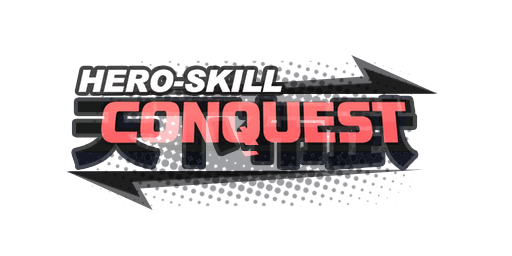
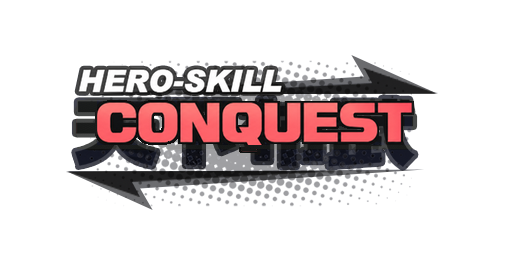
fix(art-translate): 天下布武英文版定名 CONQUEST 并补齐字块不透明度
- 译名改语义译名 CONQUEST（原 TENKA FUBU 是罗马字音译，英文玩家读不出含义）
- gpt_layout 补三条硬约束：擦除处不许留任何矩形色块、字必须完全遮住黑箭头与网点、
  整词压在 y≈152 以上（再往下底板散成网点）
- 新增 scripts/image/letter_alpha_fix.py：字压在网点晕圈上会继承底板 alpha(102)，
  RGB 调不动，必须把字块 alpha 抬到 255 并按 alpha_band 契约出边车
- 交付图 8/8 验收全绿（OCR 1.00，带内 alpha>250 48.5%→73.3%）

diff --git a/scripts/image/letter_alpha_fix.py b/scripts/image/letter_alpha_fix.py
@@ -1,0 +1,154 @@
+#!/usr/bin/env python
+"""把「压在网点晕圈上的英文美术字」补成真正不透明（改 alpha，不只是 RGB）。
+
+为什么要这一步：texie 这族底板是「笔刷 + 网点晕散」的异形轮廓，网点本身带
+alpha≈102。模型把英文画进这块晕圈时，文字像素会继承底板的 alpha ⇒ 交付图里
+字看着发灰、网点透过来（RGB 明明是 (252,100,107) 的亮红，合成到深底上却成暗红）。
+RGB 怎么调都没用，必须把「字所在像素」的 alpha 抬到 255。
+
+做法：字 = 红色墨迹（含暗红描边）膨胀 2px；这块 alpha 置 255；其余原样保留源图
+alpha（带外逐像素锁死）。字母内部的中空（O/Q 的counter）保持底板 alpha，仍读作洞。
+顺带清掉字带外那些 <150px 的红色碎笔画。
+
+产出一张 RGBA PNG + `<stem>.band.json` 边车（`{"alpha_band":[x0,y0,x1,y1]}`），
+这样管线会按「本地确定性合成」验收：带外 alpha 逐像素锁死、带内允许重建。
+
+用法：
+  python scripts/image/letter_alpha_fix.py \
+      --asset Assets/ManagedResources/ArtFont_zh/font/xxx_zh.png \
+      --out /tmp/composed/xxx.png
+（读取该资产在 _output/art_translate/<名>/out.png 的当前成果）
+"""
+from __future__ import annotations
+
+import argparse
+import json
+from collections import deque
+from pathlib import Path
+
+import numpy as np
+from PIL import Image, ImageFilter
+
+ROOT = Path(__file__).resolve().parents[2]
+WORK = ROOT / "_output" / "art_translate"
+
+
+def _dilate(mask: np.ndarray, r: int) -> np.ndarray:
+    im = Image.fromarray((mask * 255).astype(np.uint8))
+    return np.asarray(im.filter(ImageFilter.MaxFilter(2 * r + 1))) > 128
+
+
+def _reachable(mask: np.ndarray) -> np.ndarray:
+    """mask 中与画布边界 4 连通可达的像素"""
+    h, w = mask.shape
+    seen = np.zeros_like(mask, bool)
+    dq: deque[tuple[int, int]] = deque()
+    for y in range(h):
+        for x in (0, w - 1):
+            if mask[y, x] and not seen[y, x]:
+                seen[y, x] = True
+                dq.append((y, x))
+    for x in range(w):
+        for y in (0, h - 1):
+            if mask[y, x] and not seen[y, x]:
+                seen[y, x] = True
+                dq.append((y, x))
+    while dq:
+        y, x = dq.popleft()
+        for dy, dx in ((1, 0), (-1, 0), (0, 1), (0, -1)):
+            ny, nx = y + dy, x + dx
+            if 0 <= ny < h and 0 <= nx < w and mask[ny, nx] and not seen[ny, nx]:
+                seen[ny, nx] = True
+                dq.append((ny, nx))
+    return seen
+
+
+def main() -> int:
+    ap = argparse.ArgumentParser()
+    ap.add_argument("--asset", required=True, help="源图（ArtFont_zh/...）相对仓库根路径")
+    ap.add_argument("--out", required=True, help="输出 RGBA PNG（会同时写 .band.json）")
+    ap.add_argument("--work-dir", default="", help="默认 _output/art_translate/<资产名>")
+    args = ap.parse_args()
+
+    src_path = ROOT / args.asset
+    if args.work_dir:
+        work = Path(args.work_dir)
+    else:
+        # 工作目录名是「去掉末尾 _zh 后缀」的那个（注意 "_zh" 也出现在 zhitianxinzhang 里，
+        # 只能用 removesuffix，不能 replace）
+        base = src_path.stem[:-3] if src_path.stem.endswith("_zh") else src_path.stem
+        canda = [WORK / src_path.stem, WORK / base]
+        work = next((c for c in canda if (c / "out.png").is_file()), canda[0])
+    out_path = Path(args.out)
+
+    src = Image.open(src_path).convert("RGBA")
+    cur = Image.open(work / "out.png").convert("RGBA")
+    if cur.size != src.size:
+        raise SystemExit(f"尺寸不一致：{cur.size} vs {src.size}")
+    sa = np.asarray(src.getchannel("A")).astype(int)
+    oa = np.asarray(cur.getchannel("A")).astype(np.uint8)
+    rgb = np.asarray(cur.convert("RGB")).astype(np.uint8).copy()
+    R, G, B = (rgb[..., i].astype(int) for i in range(3))
+
+    red = (R > 95) & (R - G > 25) & (R - B > 22) & (sa > 8)
+    letter = _dilate(red, 2)
+
+    # 清掉碎笔画（远小于一个字母连通块）
+    seen = np.zeros_like(red)
+    cleaned = 0
+    h, w = red.shape
+    for sy, sx in zip(*np.where(red)):
+        if seen[sy, sx]:
+            continue
+        dq = deque([(sy, sx)])
+        seen[sy, sx] = True
+        comp = []
+        while dq:
+            cy, cx = dq.popleft()
+            comp.append((cy, cx))
+            for dy, dx in ((1, 0), (-1, 0), (0, 1), (0, -1)):
+                ny, nx = cy + dy, cx + dx
+                if 0 <= ny < h and 0 <= nx < w and red[ny, nx] and not seen[ny, nx]:
+                    seen[ny, nx] = True
+                    dq.append((ny, nx))
+        if len(comp) < 150:
+            px = np.array(comp)
+            y0, y1 = max(0, px[:, 0].min() - 4), min(h - 1, px[:, 0].max() + 4)
+            x0, x1 = max(0, px[:, 1].min() - 4), min(w - 1, px[:, 1].max() + 4)
+            ring = [rgb[cy, cx] for cy in range(y0, y1 + 1) for cx in range(x0, x1 + 1)
+                    if not red[cy, cx] and oa[cy, cx] > 8]
+            if ring:
+                col = np.median(np.array(ring, dtype=np.float32), axis=0).astype(np.uint8)
+                for cy, cx in comp:
+                    rgb[cy, cx] = col
+                cleaned += len(comp)
+
+    new_a = oa.copy()
+    new_a[letter] = 255
+
+    ys, xs = np.where(letter)
+    b = [max(0, int(xs.min()) - 6), max(0, int(ys.min()) - 6),
+         min(w - 1, int(xs.max()) + 6), min(h - 1, int(ys.max()) + 6)]
+
+    res = Image.fromarray(rgb, "RGB").convert("RGBA")
+    res.putalpha(Image.fromarray(new_a, "L"))
+    out_path.parent.mkdir(parents=True, exist_ok=True)
+    res.save(out_path)
+    side = out_path.with_name(out_path.stem + ".band.json")
+    side.write_text(json.dumps({"alpha_band": b}, ensure_ascii=False), encoding="utf-8")
+
+    A = np.asarray(res.getchannel("A")).astype(int)
+    sub_s = sa[b[1]:b[3] + 1, b[0]:b[2] + 1]
+    sub_o = A[b[1]:b[3] + 1, b[0]:b[2] + 1]
+    outside = np.ones(sa.shape, bool)
+    outside[b[1]:b[3] + 1, b[0]:b[2] + 1] = False
+    print(f"碎笔画清除 {cleaned} px | 字块 {int(letter.sum())} px | band {b}")
+    print(f"带内 alpha>250: {(sub_s > 250).mean():.1%} → {(sub_o > 250).mean():.1%}"
+          f" | 带内 alpha<100: {(sub_s < 100).mean():.1%} → {(sub_o < 100).mean():.1%}")
+    print(f"带外 alpha 与源图一致: {np.array_equal(sa[outside], A[outside])}")
+    print("写出", out_path, "+", side.name)
+    return 0
+
+
+if __name__ == "__main__":
+    raise SystemExit(main())
